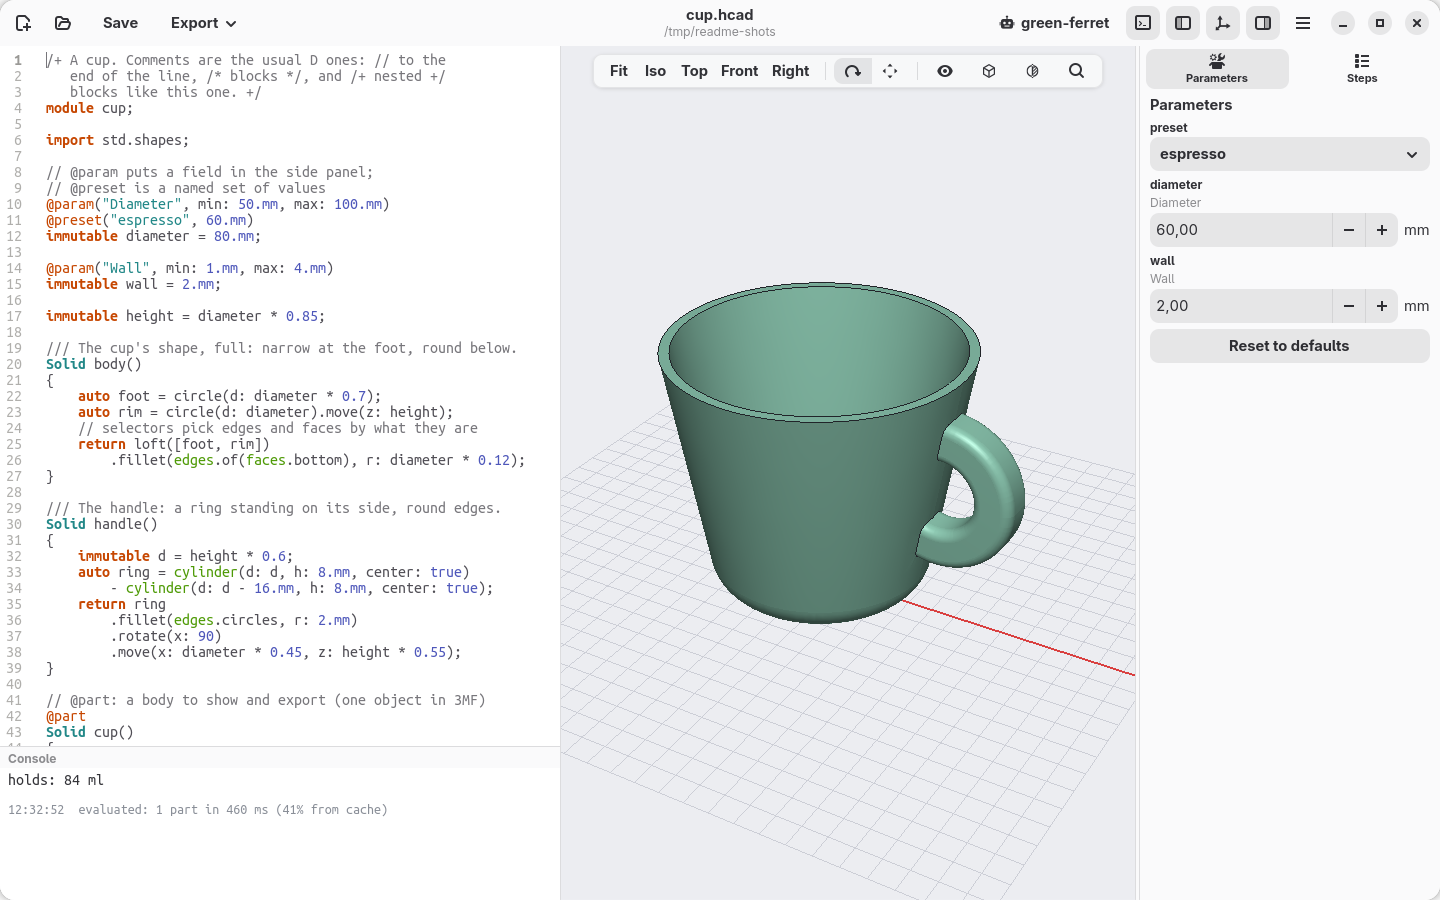
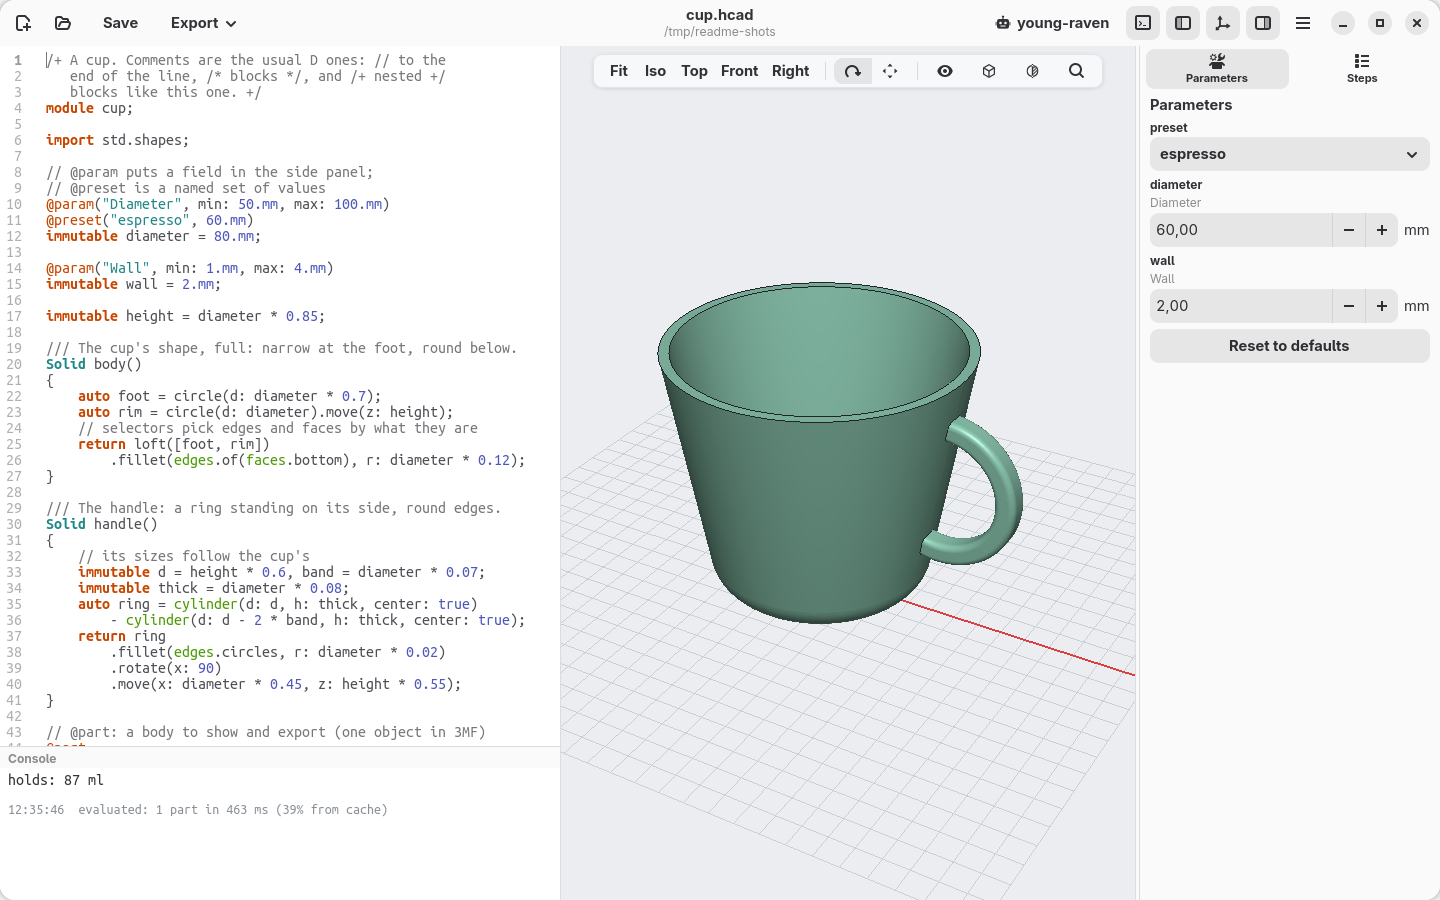
Size the cup's handle with the cup, and measure what it holds without the handle

diff --git a/README.md b/README.md
@@ -103,11 +103,13 @@ Solid body()
 /// The handle: a ring standing on its side, round edges.
 Solid handle()
 {
-    immutable d = height * 0.6;
-    auto ring = cylinder(d: d, h: 8.mm, center: true)
-        - cylinder(d: d - 16.mm, h: 8.mm, center: true);
+    // its sizes follow the cup's
+    immutable d = height * 0.6, band = diameter * 0.07;
+    immutable thick = diameter * 0.08;
+    auto ring = cylinder(d: d, h: thick, center: true)
+        - cylinder(d: d - 2 * band, h: thick, center: true);
     return ring
-        .fillet(edges.circles, r: 2.mm)
+        .fillet(edges.circles, r: diameter * 0.02)
         .rotate(x: 90)
         .move(x: diameter * 0.45, z: height * 0.55);
 }
@@ -127,7 +129,7 @@ unittest
 {
     assert(wall >= 1.2.mm, "walls under 1.2 mm leak");
     // what it holds: the full shape minus the cup
-    immutable ml = (body.volume - cup.volume) / 1.cm ^^ 3;
+    immutable ml = (body - cup).volume / 1.cm ^^ 3;
     writeln("holds: $(format("%.0f", ml)) ml");
 }
 ```
